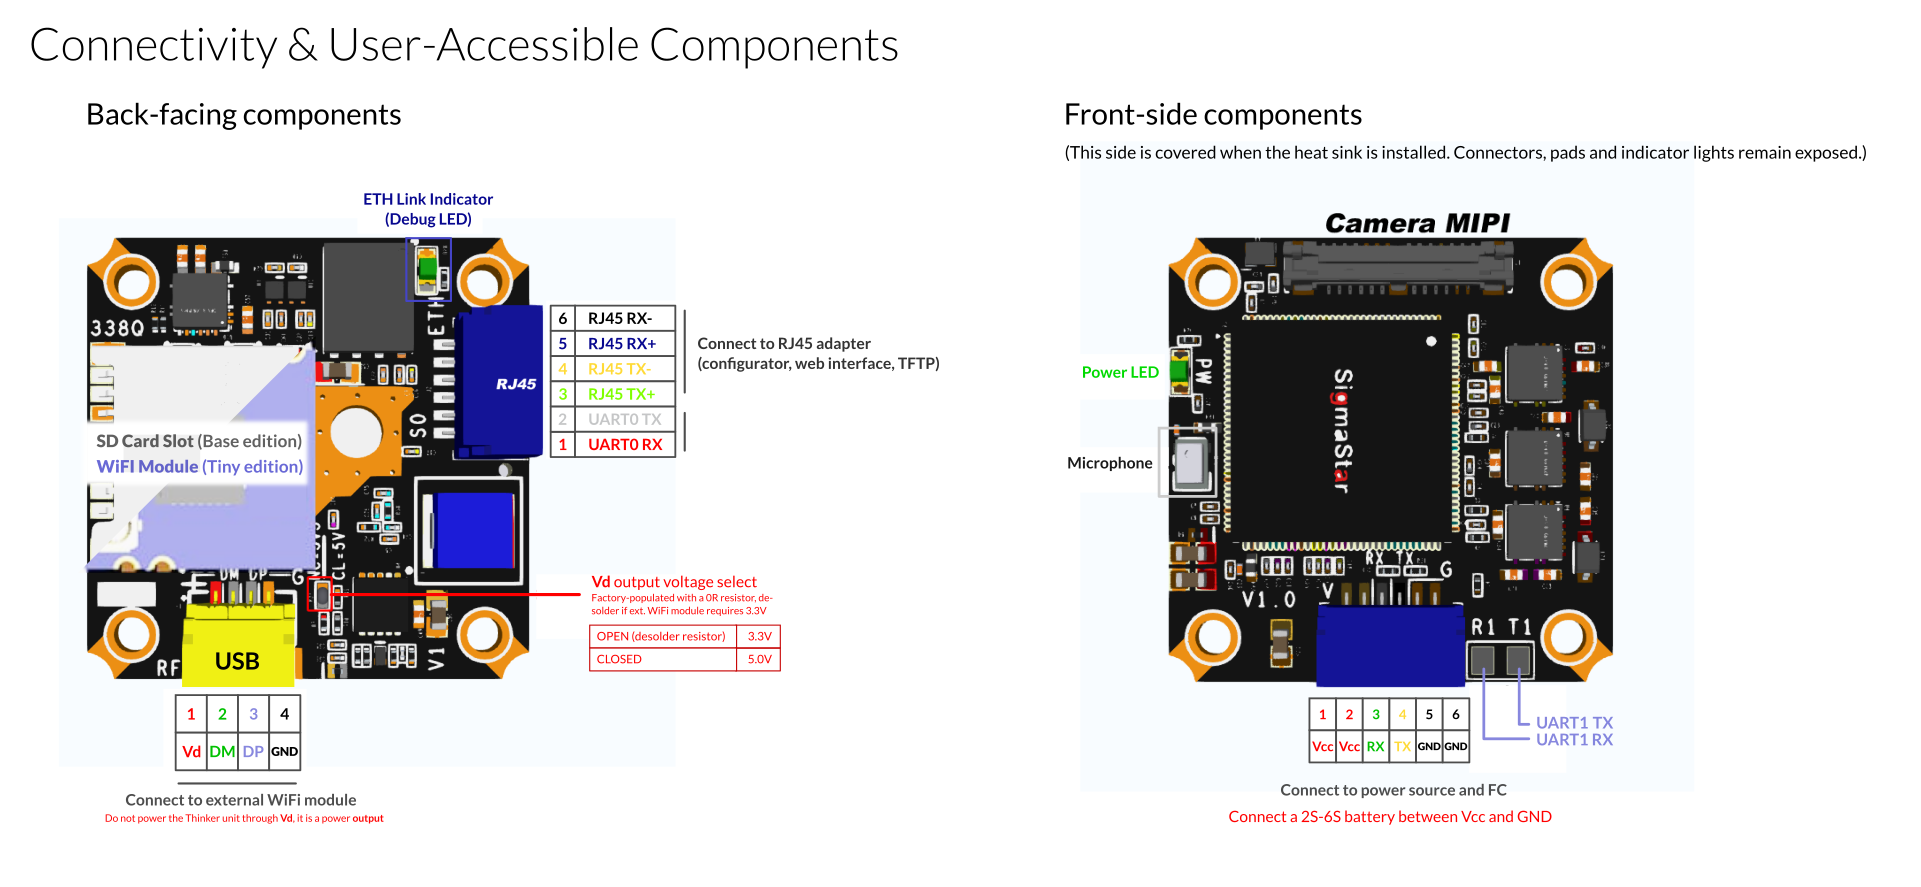
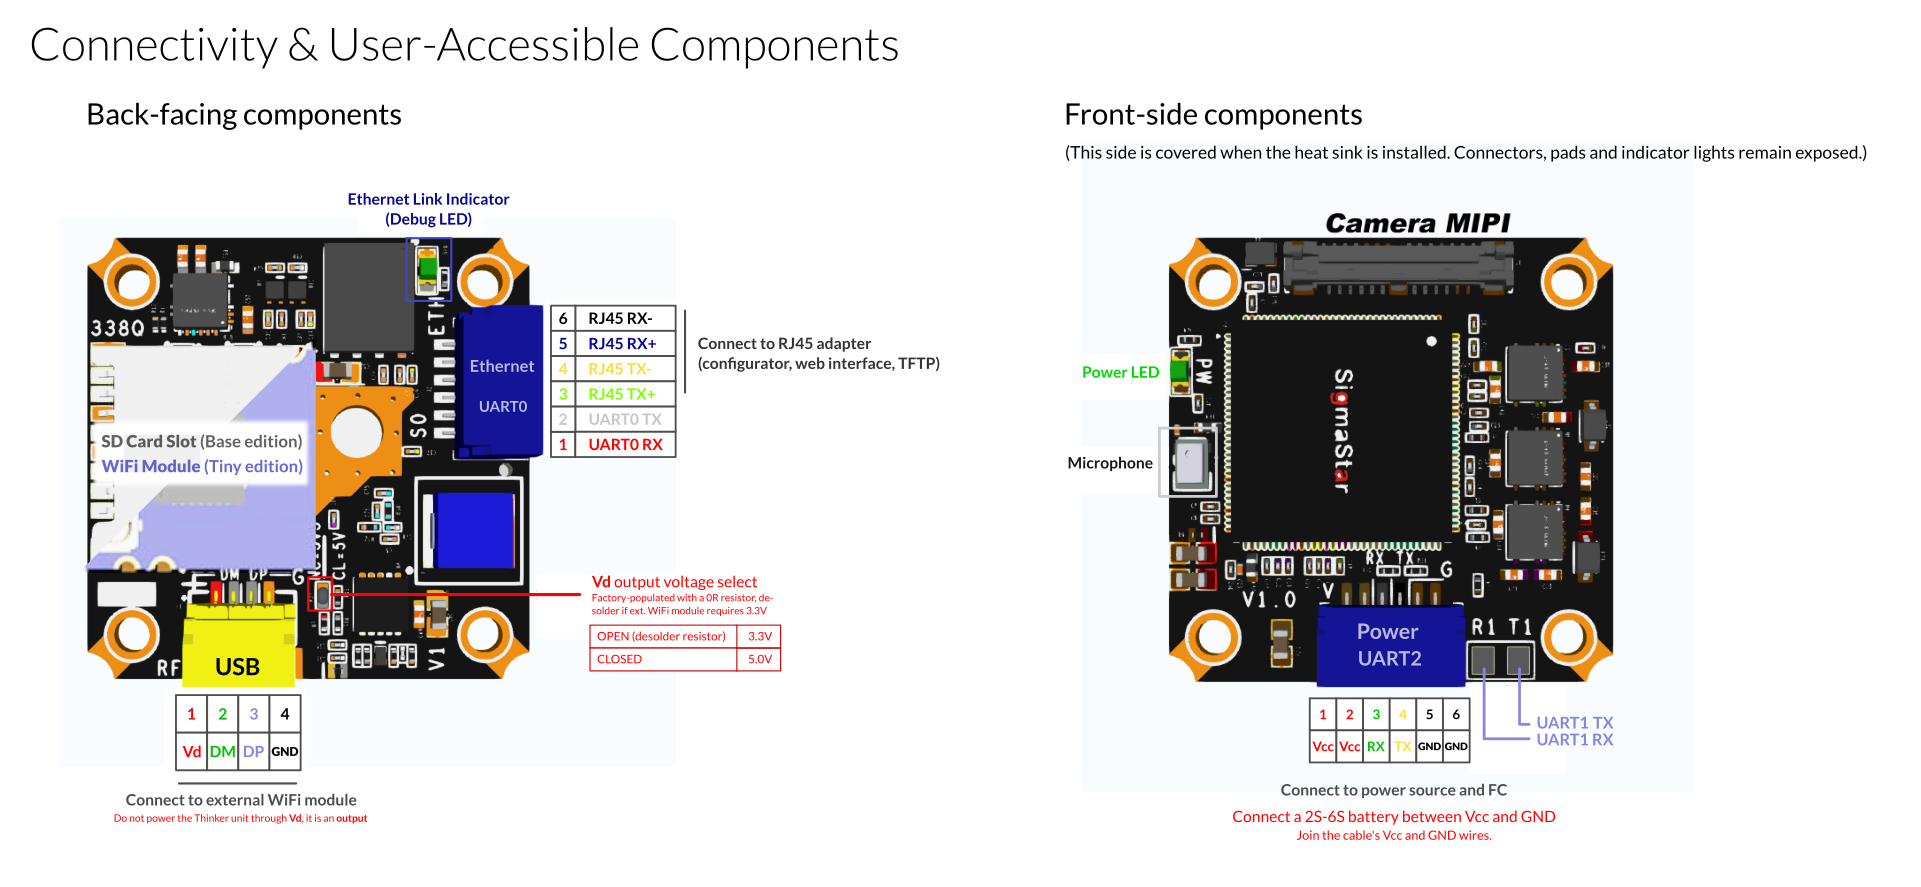
Added user manual & instructions. Fixed typos and MD issues. Confirmed pinouts, added more details and labels.

diff --git a/en/fpv-openipc-aio-thinker.md b/en/fpv-openipc-aio-thinker.md
@@ -1,34 +1,32 @@
----
-title: "OpenIPC Thinker Air Unit"
-description: "OpenIPC Thinker installation and technical notes"
----
-
-# OpenIPC AIO "Thinker" v1.0 
+## OpenIPC "Thinker" v1.0 Air Unit
 
 The OpenIPC Thinker is a compact and lightweight camera and video transmission unit, which integrates seamlessly with various RC vehicles.
 
 Two variants of the unit are available:
-- Base Edition ([Store Link](https://store.openipc.org/OpenIPC-Thinker-v1-0-Base-with-SD-p711054393)) - Features an SD card slot, requires an external WiFi module
-- Tiny Edition ([Store Link](https://store.openipc.org/OpenIPC-Thinker-v1-0-Tiny-with-WiFi-p633445803)) - Features a low power integrated WiFi module[^1], does not have an SD card slot 
 
-[^1]: RTL8731BU, typical peak TX power is 50mW @ 5G, 125mW @ 2.4G  
+- Base Edition ([Store Link](https://store.openipc.org/OpenIPC-Thinker-v1-0-Base-with-SD-p711054393)) - Comes with an SD card slot, requires an external WiFi module
+- Tiny Edition ([Store Link](https://store.openipc.org/OpenIPC-Thinker-v1-0-Tiny-with-WiFi-p633445803)) - Features an integrated low-power WiFi module[^1], however does not have an SD card slot
 
-## Technical Specifications
+[^1]: RTL8731BU, typical peak TX power is 50mW @ 5G, 125mW @ 2.4G
 
-### Features
+![image: Thinker Air Unit Kit](../images/aio-thinker/thinker-webshop-photo.jpg "Thinker Air Unit Kit")
+
+### Specifications
+
+#### Features
 
 - SSC338Q SoC
-- Power Supply: 2–6S
+- Power Supply: 2-6S
 - Integrated 3A BEC
 - Analog MEMS Microphone
 - Connectivity:
   - 3x UART ports
   - 1x MIPI camera interface
-  - 1x USB with configurable 5V or 3.3V power output for ext. WiFi module
+  - 1x USB for ext. WiFi module (with configurable 5V or 3.3V power output)
   - 1x Ethernet
-  - 1x DC power Input
+  - 1x Power Input
 
-### Physical Characteristics
+#### Physical Characteristics
 
 - **Board Size:** 25x25mm
 - **Weight** (main unit and connected camera module only):
@@ -39,50 +37,61 @@ Two variants of the unit are available:
   - **With heat sink installed**: 25.5x25.5mm
 - **Cooling:** Optional aluminium heat sink with passive cooling
 
-### Camera Options
+#### Camera Options
 
-#### IMX335 Module ([Store Link](https://store.openipc.org/OpenIPC-IMX335-v2-module-without-cable-p721231276))
+**IMX335 Module** ([Store Link](https://store.openipc.org/OpenIPC-IMX335-v2-module-without-cable-p721231276))
+
+*This is the default camera unit that comes with the Thinker AIO.*
 
 - 14x14mm camera module in aluminium housing
 - Lens: 140° FOV, f/2.8
 - IMX335 sensor, integrated 6DOF IMU
 
-This is the default camera unit that comes with the Thinker AIO.
-
-#### IMX415 Module ([Store Link](https://store.openipc.org/OpenIPC-IMX415-v2-module-without-cable-p721152215))
+**IMX415 Module** ([Store Link](https://store.openipc.org/OpenIPC-IMX415-v2-module-without-cable-p721152215))
 
 This module uses the same hardware as the IMX335 module but features an IMX415-based sensor.
 
-### Drawings (Dimensions, Connectivity)
+### Hardware Installation
 
-#### Connectivity & User-Accessiuble Components
+The Thinker Air Unit consists of three distinct hardware components in the Thinker Base model, or two in the Thinker Tiny model, which has the WiFi module integrated.
 
-![image: Thinker Connectivity & User-Accessiuble Components](../images/aio-thinker/thinker-connectivity.png "Thinker Connectivity & User-Accessiuble Components")
+These components include the main unit, the camera module, and the WiFi module. Properly connecting and powering them is necessary for the unit to function correctly.
 
-##### Installation Notes
+#### Connecting Power & The Flight Controller
 
-- Power Connection
-  - Connect a 2S-6S battery between Vcc and GND terminals
-  - **Do not power** the unit **through USB Vd**, it is a power output
+1. Locate the *Power & UART cable* in your Thinker AIO Kit. It has 6 leads attached to a JST connector, with the following color sequence: Black, Black, Yellow, Green, Red, and Red.
+2. Solder the black leads to the negative terminal and the red leads to the positive terminal of your vehicle's battery connector or power source.
+(Ensure that similarly colored leads are connected at the power source. **Do not use this cable for power pass-through.**)
+3. Solder the green wire to the TX pin and the yellow wire to the RX pin of a free UART on your flight controller.
+4. If the UART leads are colored differently on your cable, refer to the connectivity diagram below.
+For proper communication, connect TX to RX and RX to TX between your flight controller and the Thinker.
+5. Connect the cable to the Power & UART2 connector on the side of the unit where the heat sink is located.
 
-- Network Connection
-  - Use the supplied RJ45 cable and adapter to access the web interface, and other management and update utilities
-  - The ETH link indicator LED shows connection status
+#### Connecting An External WiFi Module
 
-- Camera Module
-  - A camera modules is attached to the main unit out of the box.
-  - Camera modules can be exchanged, compatible camera modules are listed in this document.
+1. If you have the Thinker Base model, connecting an external WiFi module is necessary for operation. **If you have the Thinker Tiny unit, skip this step.**
+2. Locate the *4-pin USB cable*. The leads are color-coded as follows: Red, Blue, Yellow, and Black.
+3. The specific connections depend on your WiFi module.
+You will need to connect the black lead of the cable to the module's GND pad, the red lead to its power input (either +5V, +3.3V, VIN, or VCC), the yellow lead to the USB DP (or D+) pad, and the blue lead to the USB DM (or D-) pad.
+4. If the USB cable’s leads are colored differently, refer to the connectivity diagram below.
+For proper communication, ensure that D+ is connected to D+ and D- is connected to D- between the WiFi module and the Thinker.
 
-- Optional Hardware
-  - SD Card Slot (available on Base edition)
-  - **On Base edition** units, an **external WiFi module must be connected** to designated pins
-  - **On Tiny edition** units, the **USB** header **cannot be used** to connect external hardware, as the connection is used by the integrated WiFi module.
-  - The *Power / UART2 Header* UART can be used for communication with a flight controller
+#### Replacing The Camera Module
 
-Various notes:
-- Do not remove the **thermal putty** from the heatsink, it **cannot be replaced with thermal paste**. If already removed, use low hardness thermal pads, or thermal putty as a replacement.
+1. Your Thinker AIO unit comes with an IMX335 camera module pre-installed. **If you do not intend to replace the camera module with a different model, you can skip the remainder of this step.**
+2. To replace the camera module, start by removing the aluminium heat sink. Unscrew the 4 screws securing the heat sink, then gently separate it from the circuit board.
+(Do not remove the thermal putty from the heat sink, as it does not need to be replaced when reseating the heat sink and cannot be substituted with thermal paste.)
+3. Carefully disconnect the old camera module from the unit and attach the replacement module. Then, reposition the heat sink and secure it to the circuit board by fastening the mounting screws.
 
-##### Pin Descriptions
+#### Ethernet Connectivity For Configuration And Updates
+
+1. Locate the Ethernet cable, which has a 6-pin JST connector on one end and an RJ45 jack on the other.
+2. Plug the 6-pin JST connector into the *Ethernet & UART0 port* on the side of the unit opposite the heat sink.
+3. The RJ45 jack on the other end can be connected directly to a computer, or to a standard Ethernet cable using the included adapter.
+
+#### System Connectivity & Physical Specifications
+
+![image: Thinker Connectivity & User-Accessible Components](../images/aio-thinker/thinker-connectivity.png "Thinker Connectivity & User-Accessible Components")
 
 | Pin Name    | Dir  | Description                                                    |
 |-------------|------|----------------------------------------------------------------|
@@ -90,51 +99,82 @@ Various notes:
 | UART0 RX    | In   | UART0 receive line                                             |
 | UART0 TX    | Out  | UART0 transmit line                                            |
 | RJ45 TX+    | Out  | Ethernet TX+                                                   |
-| RJ45 TX−    | Out  | Ethernet TX-                                                   |
+| RJ45 TX-    | Out  | Ethernet TX-                                                   |
 | RJ45 RX+    | In   | Ethernet RX+                                                   |
-| RJ45 RX−    | In   | Ethernet RX-                                                   |
+| RJ45 RX-    | In   | Ethernet RX-                                                   |
 | **USB Header**                                                                  | | |
-| Vd          | Out  | Ext. WiFi Module Power output[^2][^3]                          |
-| DM          | I/O  | Ext. WiFi Module USB Data -                                    |
-| DP          | I/O  | Ext. WiFi Module USB Data +                                    |
+| Vd          | Out  | Ext. WiFi Module Power output                                  |
+| DM          | I/O  | Ext. WiFi Module USB Data-                                     |
+| DP          | I/O  | Ext. WiFi Module USB Data+                                     |
 | GND         | —    | Ground                                                         |
 | **Power / UART2 Header**                                                        | | |
 | Vcc         | In   | Power input                                                    |
-| Vcc         | In   | Power input (duplicate pin, merge wires)                       |
+| Vcc         | In   | Power input (duplicate pin, join wires)                        |
 | RX          | In   | UART2 receive line (to FC)                                     |
 | TX          | Out  | UART2 transmit line (to FC)                                    |
 | GND         | —    | Ground                                                         |
-| GND         | —    | Ground (duplicate pin, merge wires)                            |
+| GND         | —    | Ground (duplicate pin, join wires)                             |
 | **UART1 Solder Pads**                                                           | | |
 | RX          | In   | UART1 receive line                                             |
 | TX          | Out  | UART1 transmit line                                            |
 
-[^2]: Output voltage can be programmed, 
-[^3]: The use of Vd is optional, high-power WiFi modules can be powered externally. In such cases, connect DM, DP, and GND only.
-
-#### PCB Outline & Heat Sink Dimensions 
-
 ![image: Thinker PCB And Heats Sink Dimensions](../images/aio-thinker/thinker-dimensions.png "Thinker PCB And Heat Sink Dimensions")
 
-## Firmware Update
+#### *Installation Tips and Precautions*
 
-The latest firmware can be [downloaded here](https://github.com/OpenIPC/builder/releases/download/latest/ssc338q_fpv_openipc-thinker-aio-nor.tgz). This release includes drivers for RTL8812AU and RTL873XBU. 
+- **Do not power the unit through USB Vd**, as it is a power output, not an input.
+- When removing the heat sink for any reason, **do not remove the thermal putty** from the heat sink. It does not need to be replaced and **cannot be substituted with thermal paste**.
+- If your external WiFi module requires a 3.3V input voltage instead of 5V, be sure to de-solder the Vd voltage select resistor before connecting Vd to the module.
+- The use of Vd is optional. High-power WiFi modules can be powered externally. In such cases, only connect DM, DP, and GND.
+- **Base** (SD) units **require an external WiFi module**.
+- **Tiny** (WiFi) units **cannot use an external WiFi module**, as the USB connection is already occupied by the integrated WiFi module.
+- Both the Ethernet and Power cables use similar 6-pin connectors. Take care to avoid plugging them into the wrong ports.
 
-**Note:**
-The RTL8731BU has limitations as a receiving unit (does not support LDPC), disable it on the ground station when using tunnel/MAVLink. It works well as a transmission unit for both 2.4 GHz and 5.8 GHz.[^4].
+### Software Setup And Installation
 
-[^4]: Ref. https://t.me/c/1809358416/127308/129654
+#### Get up and running
 
-To disable LDPC, add the following to the `/etc/wifibroadcast.cfg` file on your ground station:
-```
-[tunnel]
-ldpc = 0
-```
+The Thinker Air Unit is designed to be plug-and-play on the software side. Upon powering up, it should automatically connect to a ground station (provided it has the default gs.key file installed, commonly included with most OpenIPC FPV software).
 
-If you are using an RTL8812EU module, use [this firmware release](https://github.com/OpenIPC/builder/releases/download/latest/ssc338q_fpv_openipc-urllc-aio-nor.tgz).
+##### Connecting Ethernet & Accessing The Web UI
 
-## Built-in RF output settings
+You can access the Thinker’s configuration utilities over a wired Ethernet connection. Some advanced features - such as automatic firmware updates - also require internet access.
 
-![image](https://github.com/user-attachments/assets/4edbafca-f737-446b-ab2e-4677f23c6a6d)
+There are two main connection methods:
 
-![image](https://github.com/user-attachments/assets/44b6810e-67cb-4b66-a3b1-000d402e65da)
+- **Using DHCP (Automatic Network Configuration):**
+  This method allows connecting the unit into your existing network and provides internet access to the device.
+  When connected to a network (e.g., your home router), the unit will first attempt to obtain an IP address via DHCP.
+  To access the Web UI in this case, you'll need to look up the unit's assigned IP address, typically through the configuration page of your home router.
+- **Using Static IP (Direct Connection to a Computer):**
+  If a DHCP server is unavailable—such as when connecting the unit directly to a computer—the device will fall back to a static IP configuration:
+  - **IP Address:** `192.168.1.10`
+  - **Subnet Mask:** `255.255.255.0`
+  - **Gateway:** `192.168.1.1`
+
+  To connect in this mode, configure your computer's network interface with a compatible static IP address (e.g., `192.168.1.11`). All major operating systems support manual IP configuration; simply apply the above settings to the network adapter associated with the Thinker connection.
+
+Once connected, you can access the Web UI by navigating to either the IP address assigned via DHCP or the static address `http://192.168.1.10` in your web browser.
+
+> **Default Credentials:**
+> The default login for the Web UI is:
+>
+> - **Username:** `root`
+> - **Password:** `12345`
+>
+> These credentials are used system-wide. Upon first login, you will be prompted to set a new password.
+
+##### Updating the Firmware
+
+There are several ways to update the firmware on your Thinker Air Unit, but the two most user-friendly methods are:
+
+- **Via the Web UI** — If the unit has access to the global internet, open the Web UI and navigate to the **Firmware Update** tab.
+- **Using the [OpenIPC Configurator](https://github.com/OpenIPC/openipc-configurator)** — Ideal for offline updates.
+
+The latest standard firmware can be downloaded [here](https://github.com/OpenIPC/builder/releases/download/latest/ssc338q_fpv_openipc-thinker-aio-nor.tgz). This version (`ssc338q_fpv_openipc-thinker-aio-nor`) includes drivers for **RTL8812AU** and **RTL873xBU** WiFi modules.
+
+If you're using an **RTL8812EU** module, use [this alternate firmware](https://github.com/OpenIPC/builder/releases/download/latest/ssc338q_fpv_openipc-urllc-aio-nor.tgz)  (`ssc338q_fpv_openipc-urllc-aio-nor`).
+
+#### Advanced Configuration
+
+For more advanced setup options use the [OpenIPC Configurator](https://github.com/OpenIPC/openipc-configurator), and refer to the [OpenIPC Documentation](https://docs.openipc.org).
